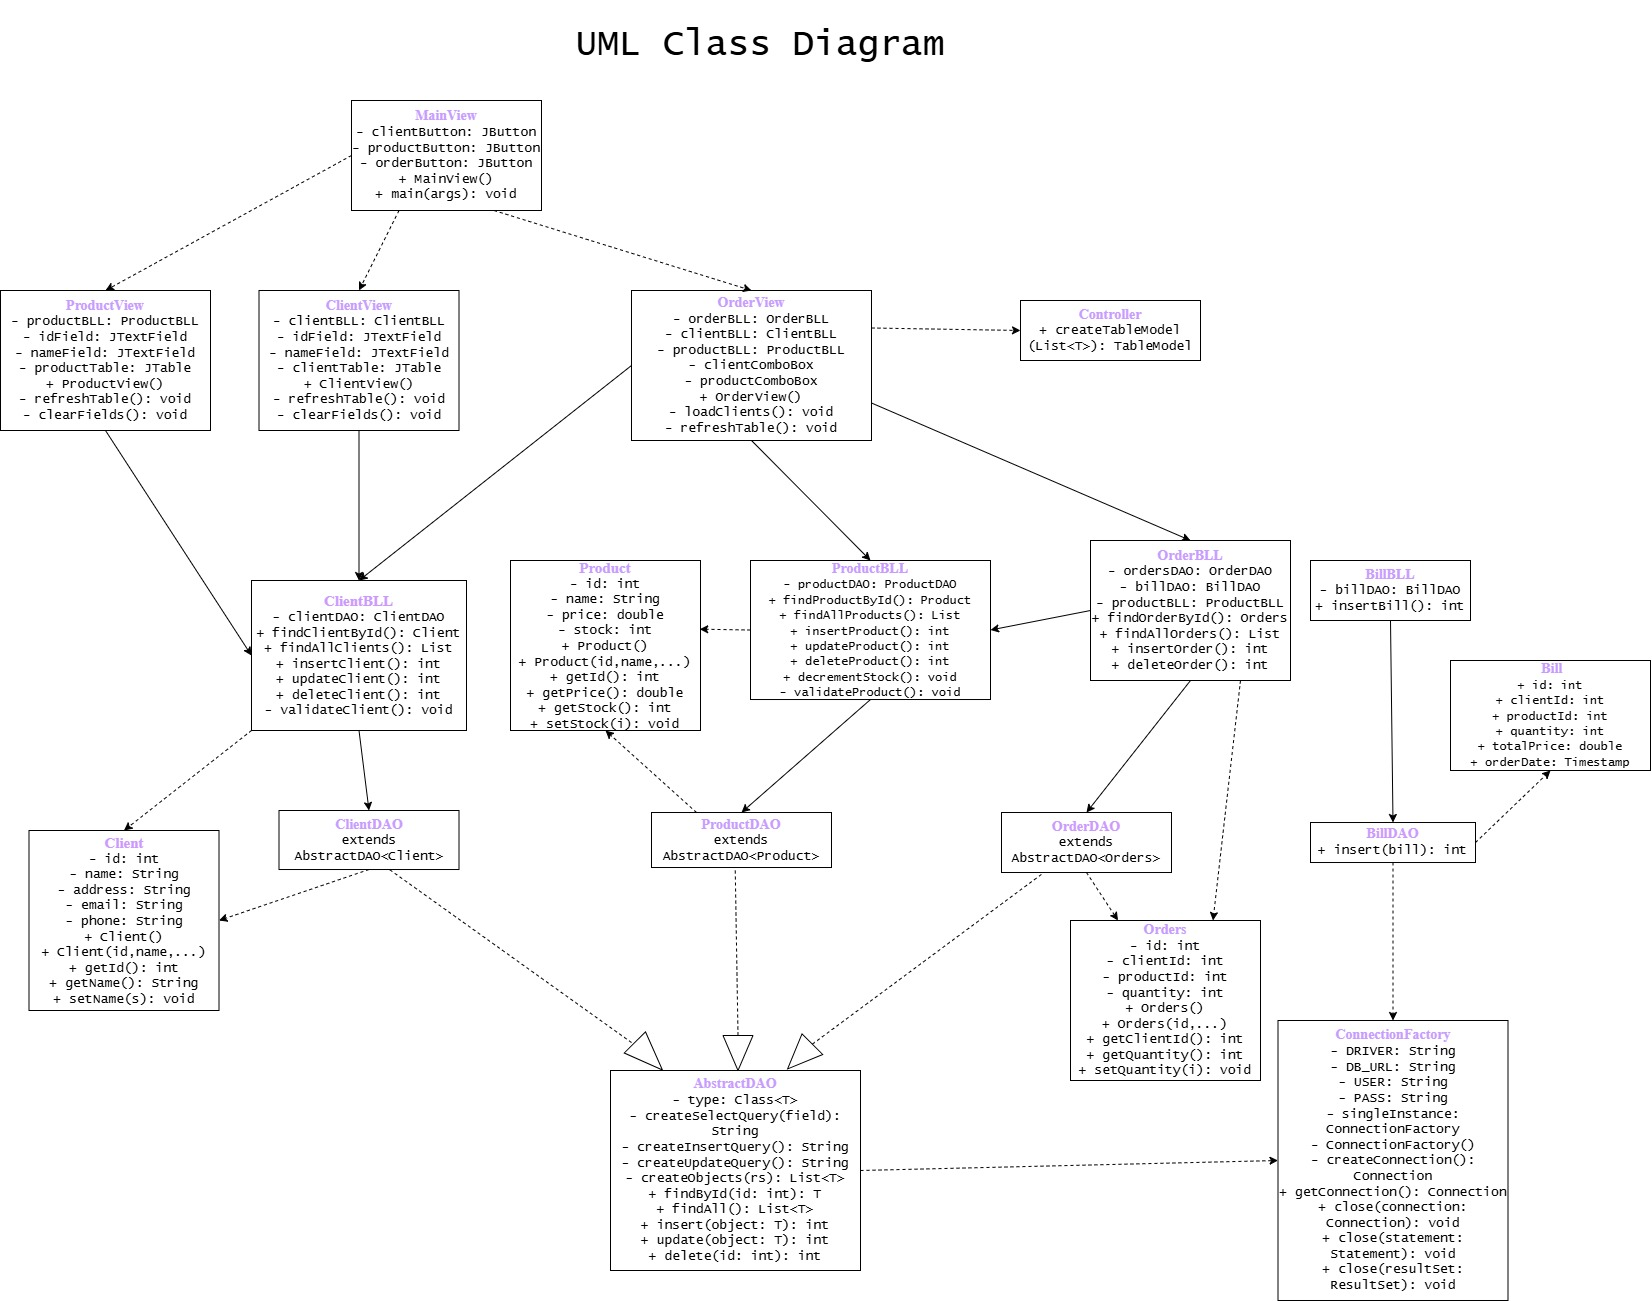
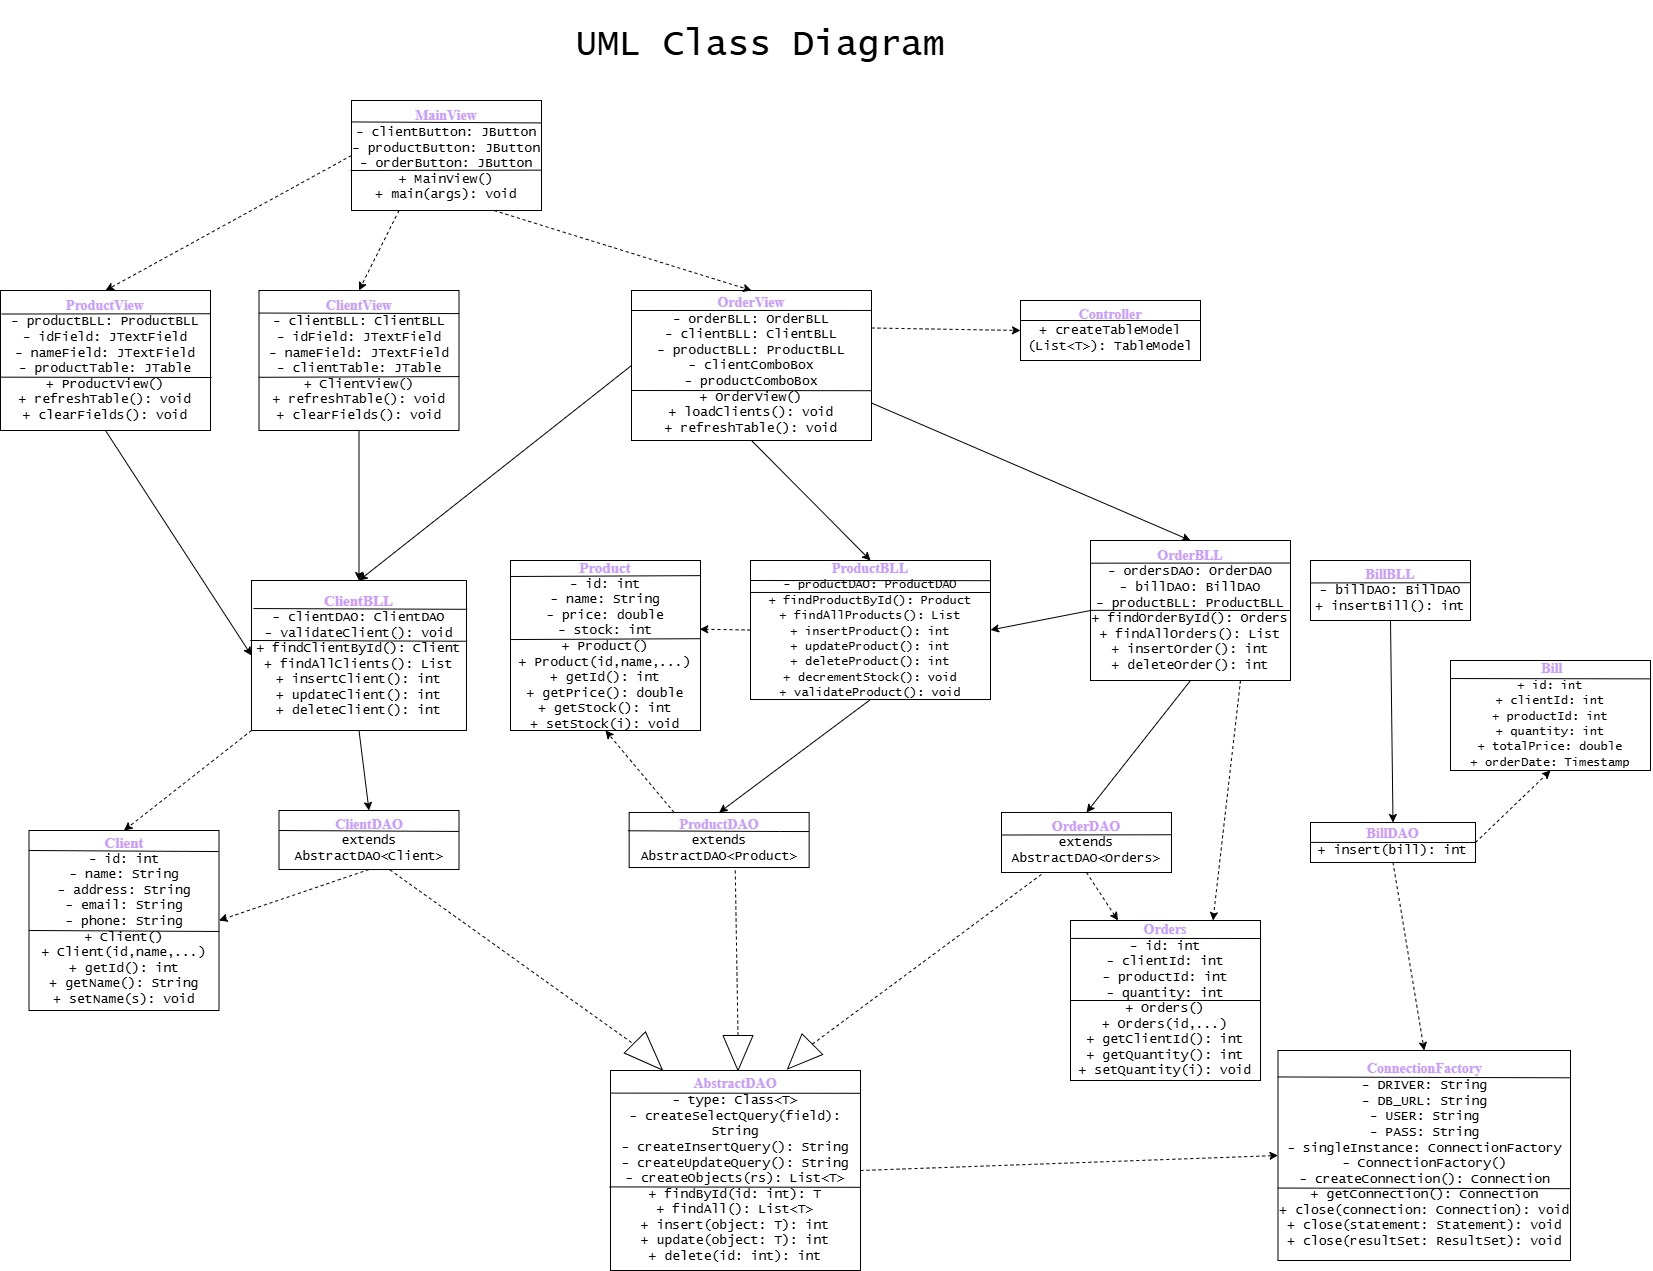
adaugat proiectul

diff --git a/src/main/java/dataAccess/ClientDAO.java b/src/main/java/dataAccess/ClientDAO.java
@@ -1,12 +1,58 @@
 package dataAccess;
 
 import model.Client;
+import connection.ConnectionFactory;
+import java.sql.Connection;
+import java.sql.PreparedStatement;
+import java.sql.SQLException;
+import java.util.logging.Level;
 
 /**
  * Clasa DAO pentru entitatea Client.
  * Mosteneste operatiile CRUD din clasa {@link AbstractDAO}.
  */
-public class ClientDAO extends AbstractDAO<Client>
-{
 
+public class ClientDAO extends AbstractDAO<Client> {
+
+    @Override
+    public int delete(int id) {
+        Connection connection = null;
+        PreparedStatement deleteOrders = null;
+        PreparedStatement deleteClient = null;
+
+        try {
+            connection = ConnectionFactory.getConnection();
+            connection.setAutoCommit(false); // începem tranzacția
+
+            // 1. Ștergem comenzile asociate clientului
+            deleteOrders = connection.prepareStatement(
+                    "DELETE FROM orders WHERE clientId = ?"
+            );
+            deleteOrders.setInt(1, id);
+            deleteOrders.executeUpdate();
+
+            // 2. Ștergem clientul
+            deleteClient = connection.prepareStatement(
+                    "DELETE FROM client WHERE id = ?"
+            );
+            deleteClient.setInt(1, id);
+            int rows = deleteClient.executeUpdate();
+
+            connection.commit(); // confirmăm tranzacția
+            return rows;
+
+        } catch (SQLException e) {
+            LOGGER.log(Level.WARNING, "ClientDAO:delete " + e.getMessage());
+            try {
+                if (connection != null) connection.rollback(); // anulăm dacă ceva eșuează
+            } catch (SQLException ex) {
+                LOGGER.log(Level.WARNING, "Rollback failed: " + ex.getMessage());
+            }
+            return -1;
+        } finally {
+            ConnectionFactory.close(deleteOrders);
+            ConnectionFactory.close(deleteClient);
+            ConnectionFactory.close(connection);
+        }
+    }
 }

diff --git a/src/main/java/presentation/Controller.java b/src/main/java/presentation/Controller.java
@@ -1,16 +1,13 @@
 package presentation;
-
 import javax.swing.table.DefaultTableModel;
 import javax.swing.table.TableModel;
 import java.lang.reflect.Field;
 import java.util.List;
-
 /**
  * Clasa controller care gestioneaza logica dintre view-uri si clasele BLL.
  * Foloseste reflection pentru a genera headerele tabelelor si a le popula cu date.
  */
 public class Controller {
-
     /**
      * Cream un model de tabel dintr-o lista de obiecte folosind reflection.
      * Extragem numele campurilor ca headere si valorile campurilor ca randuri.
@@ -23,16 +20,13 @@ public class Controller {
         if (objects == null || objects.isEmpty()) {
             return new DefaultTableModel();
         }
-
         Class<?> clazz = objects.get(0).getClass();
         Field[] fields = clazz.getDeclaredFields();
-
         // Generam headerele tabelului prin reflection
         String[] columnNames = new String[fields.length];
         for (int i = 0; i < fields.length; i++) {
             columnNames[i] = fields[i].getName();
         }
-
         // Populam randurile tabelului cu valorile campurilor
         Object[][] data = new Object[objects.size()][fields.length];
         for (int i = 0; i < objects.size(); i++) {
@@ -45,7 +39,6 @@ public class Controller {
                 }
             }
         }
-
         return new DefaultTableModel(data, columnNames);
     }
 }

diff --git a/src/main/java/dataAccess/AbstractDAO.java b/src/main/java/dataAccess/AbstractDAO.java
@@ -100,7 +100,7 @@ public class AbstractDAO<T> {
     }
 
     /**
-     * Construim query-ul DELETE pentru entitatea curenta.
+     * Construim query-ul DELETE.
      *
      * @return query-ul DELETE construit
      */
